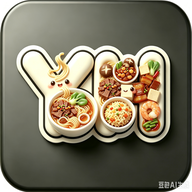
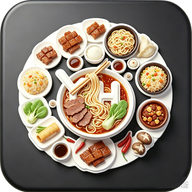
Add files via upload

diff --git a/index.html b/index.html
@@ -245,7 +245,9 @@ svg{ display:block; }
   display:flex;align-items:center;justify-content:center;
   font-weight:800;font-size:19px;
   -webkit-backdrop-filter:blur(4px); backdrop-filter:blur(4px);
+  overflow:hidden;
 }
+.brand-logo img{ width:100%; height:100%; object-fit:cover; display:block; }
 .brand-text b{ display:block; font-size:15px; font-weight:800; }
 .brand-text small{ display:block; font-size:11px; opacity:.85; }
 .nav-list{ flex:1 1 auto; display:flex; flex-direction:column; gap:4px; }
@@ -1575,7 +1577,7 @@ button.op-opt:active{ transform:scale(.985); }
   <nav id="sidenav" aria-label="主导航">
     <div class="sidenav-head">
       <div class="brand">
-        <div class="brand-logo">点</div>
+        <div class="brand-logo"><img src="icons/avatar-512.png" alt="YH YUMMY"></div>
         <div class="brand-text">
           <b>YH YUMMY</b>
           <small>DELI FOOD JUNCTION · 离线收银</small>
@@ -2102,6 +2104,14 @@ button.op-opt:active{ transform:scale(.985); }
     shopPhone: '',                 // 电话
     shopReg: '',                   // REG NO. 注册号
     receiptFooter: '谢谢惠顾，欢迎再次光临',
+
+    /* SST（马来西亚销售与服务税）展示。**不计入收费**，只在小票合计下面/结账页
+       应付下方告知客人这单含多少税，便于对账。0 = 不显示。
+       - sstRate:     税率（%），默认 6
+       - sstInclusive: true = 价格已含税（tax = total ÷ (1+率) × 率）→ 客人已付清，不再加收
+                      false = 价外（tax = total × 率）→ 仅做信息提示 */
+    sstRate: 6,
+    sstInclusive: true,
 
     /* 营业模式（早餐 / 午餐 / 晚餐…）：bizTags 是模式名列表，bizHours 是各自的时段，
        bizMode 是当前选中（'auto' = 按 bizHours 自动判现在该哪一档）。
@@ -5300,6 +5310,34 @@ button.op-opt:active{ transform:scale(.985); }
     return name + ' ' + (dotN > 0 ? '.'.repeat(dotN) : '') + ' ' + right;
   }
 
+  /* SST（马来西亚销售与服务税）计算 + 小票行。ESC/POS 模板与 HTML 兜底模板共用。
+     **不计入收费** —— 只是在合计下面告知这单含多少税，total / due 一概不动。
+     - 价内含税（sstInclusive=true，默认）：价格里已经含了税，
+       tax = total ÷ (1 + 率) × 率 —— 客人付的就是这个价，不再加收。
+     - 价外（sstInclusive=false）：tax = total × 率，只做信息提示。
+     税率 0 或没配 → 返回 null，什么都不输出。 */
+  function computeSst(total, cfg) {
+    cfg = cfg || {};
+    var rate = +cfg.sstRate || 0;
+    if (!rate || !total) return null;
+    var pct = rate / 100;
+    var tax = cfg.sstInclusive ? (total / (1 + pct)) * pct : total * pct;
+    if (!isFinite(tax) || tax <= 0) return null;
+    return {
+      label: 'SST ' + rate + '%' + (cfg.sstInclusive ? '（已含）' : ''),
+      amount: Math.round(tax * 100) / 100
+    };
+  }
+
+  /* ESC/POS：在合计下面打一行 SST（居中、小号，不加粗，跟合计区分开） */
+  function pushSstRow(lines, total, cfg) {
+    var s = computeSst(total, cfg);
+    if (!s) return;
+    lines.push([].concat(ESCPOS.ALIGN_C,
+                         encodeForPrinter(s.label + '  RM ' + U.formatMoneyPlain(s.amount)),
+                         ESCPOS.LF));
+  }
+
   /* 小票抬头四件套：店铺名称 / 地址 / 电话 / REG NO.
      空值整行不输出 —— 没填的项目不留空白行。 */
   function shopLines(cfg) {
@@ -5356,7 +5394,7 @@ button.op-opt:active{ transform:scale(.985); }
   }
 
   /* 金额区（两套模板共用）：应付 / 实收 / 找零 / 合计，退过钱的多打两行明细 */
-  function pushMoney(lines, order, sep) {
+  function pushMoney(lines, order, sep, cfg) {
     var due = order.due != null ? order.due : order.total;
     var paid = order.paid != null ? order.paid : due;
     var chg = order.change != null ? order.change : Math.max(0, paid - due);
@@ -5390,6 +5428,8 @@ button.op-opt:active{ transform:scale(.985); }
                          encodeForPrinter('合计：RM ' + U.formatMoneyPlain(order.total)),
                          ESCPOS.LF,
                          ESCPOS.SIZE_1, ESCPOS.BOLD_OFF));
+    // SST 行：在合计下面，小号居中，纯告知、不加收
+    pushSstRow(lines, order.total, cfg);
   }
 
   /* 落款（两套模板共用）：操作员 + 底部备注 + 切纸 */
@@ -5439,7 +5479,7 @@ button.op-opt:active{ transform:scale(.985); }
     lines.push([].concat(ESCPOS.ALIGN_L, encodeForPrinter(sep), ESCPOS.LF));
 
     pushItems(lines, order, sep);
-    pushMoney(lines, order, sep);
+    pushMoney(lines, order, sep, cfg);
     pushFoot(lines, order, cfg);
     return joinBytes(lines);
   }
@@ -5481,7 +5521,7 @@ button.op-opt:active{ transform:scale(.985); }
     lines.push([].concat(ESCPOS.ALIGN_L, encodeForPrinter(sep), ESCPOS.LF));
 
     pushItems(lines, order, sep);
-    pushMoney(lines, order, sep);
+    pushMoney(lines, order, sep, cfg);
     pushFoot(lines, order, cfg);
     return joinBytes(lines);
   }
@@ -5532,6 +5572,7 @@ button.op-opt:active{ transform:scale(.985); }
       '  .rcpt .it-meta{ color:#555; font-size:10px; }' +
       '  .rcpt .it-amt{ text-align:right; white-space:nowrap; }' +
       '  .rcpt .total{ text-align:center; font-size:16px; font-weight:800; margin-top:6px; }' +
+      '  .rcpt .sst{ text-align:center; font-size:11px; color:#333; margin-top:3px; }' +
       '  .rcpt .foot{ text-align:center; margin-top:6px; font-size:11px; }' +
       /* 外卖：TA 单号块 */
       '  .rcpt .ta-title{ text-align:center; font-size:15px; font-weight:800; margin:6px 0 2px; }' +
@@ -5593,6 +5634,12 @@ button.op-opt:active{ transform:scale(.985); }
           : '') +
         '<div class="sep"></div>' +
         '<div class="total">合计：RM ' + U.formatMoneyPlain(order.total) + '</div>' +
+        // SST 行：合计下面，小字居中，纯告知、不加收
+        (function () {
+          var s = computeSst(order.total, cfg);
+          return s ? '<div class="sst">' + U.escapeHTML(s.label) +
+                     '  RM ' + U.formatMoneyPlain(s.amount) + '</div>' : '';
+        })() +
         '<div class="row"><span>操作员</span><span>' + U.escapeHTML(G.App.operator.labelOf(order)) + '</span></div>' +
         (cfg.receiptFooter ? '<div class="foot">' + U.escapeHTML(cfg.receiptFooter) + '</div>' : '') +
       '</div>';
@@ -5776,7 +5823,8 @@ button.op-opt:active{ transform:scale(.985); }
     buildDineInReceipt: buildDineInReceipt,
     buildTakeawayReceipt: buildTakeawayReceipt,
     receiptHTML: receiptHTML,     // 浏览器兜底用的 HTML，设置页预览两套模板也用它
-    shopLines: shopLines          // 纯函数，导出给冒烟测试直接验证抬头四件套
+    shopLines: shopLines,         // 纯函数，导出给冒烟测试直接验证抬头四件套
+    computeSst: computeSst        // 纯函数：算出这单含多少 SST（不计入收费，只做展示）
   };
 })(window);
 
@@ -7061,9 +7109,13 @@ button.op-opt:active{ transform:scale(.985); }
       wrap.innerHTML = '';
       // 标题
       var head = U.el('div', { class: 'page-title' }, [
-        U.el('div', null, [
-          U.el('h1', null, 'YH YUMMY'),
-          U.el('div', { class: 'sub' }, 'DELI FOOD JUNCTION · 今日：' + U.formatDateCN(new Date()))
+        U.el('div', { style: 'display:flex;align-items:center;gap:14px;' }, [
+          U.el('img', { src: 'icons/avatar-512.png', alt: 'YH YUMMY',
+            style: 'width:60px;height:60px;border-radius:16px;object-fit:cover;box-shadow:0 4px 12px rgba(0,0,0,.12);flex:0 0 auto;' }),
+          U.el('div', null, [
+            U.el('h1', null, 'YH YUMMY'),
+            U.el('div', { class: 'sub' }, 'DELI FOOD JUNCTION · 今日：' + U.formatDateCN(new Date()))
+          ])
         ]),
         U.el('div', null, [
           U.el('button', { class: 'btn btn-soft', onclick: goTables }, [
@@ -10025,6 +10077,60 @@ button.op-opt:active{ transform:scale(.985); }
       c3.appendChild(f3);
       wrap.appendChild(c3);
 
+      /* SST（马来西亚销售与服务税）展示。**不计入收费**，只在小票合计下面 +
+         结账页应付下方提示客人这单含多少税，便于对账。
+         - 税率 0 就不显示这行（默认行为）
+         - 价内含税：客人付的就是这个价，按 total ÷ (1+率) × 率 反推税额（不另收）
+         - 价外：仅做信息提示，税额 = total × 率（客人也仍按 total 付） */
+      var cSst = U.el('div', { class: 'card' });
+      cSst.innerHTML = '<div class="card-title">SST 销售税展示 <span class="hint">不计入收费</span></div>';
+      var fS1 = U.el('div', { class: 'field' });
+      fS1.innerHTML = '<label>税率（%）<span class="hint">0 = 不显示</span></label>';
+      var inRate = U.el('input', { class: 'input', type: 'number', min: '0', max: '50', step: '0.5', value: c.sstRate || 0 });
+      inRate.addEventListener('change', function () {
+        var n = Math.max(0, Math.min(50, parseFloat(inRate.value) || 0));
+        G.App.cfg.set('sstRate', n);
+        inRate.value = n;
+        refresh();
+      });
+      fS1.appendChild(inRate);
+      cSst.appendChild(fS1);
+
+      var fS2 = U.el('div', { class: 'field' });
+      fS2.innerHTML = '<label>计税口径</label>';
+      var sSeg = U.el('div', { class: 'seg' });
+      [
+        ['true', '价内（含税）', '价格里已经含了税，客人付的就是这个价'],
+        ['false', '价外（仅提示）', '显示税额供参考，但客人也按 total 付']
+      ].forEach(function (p) {
+        var b = U.el('button', { class: (!!c.sstInclusive) === (p[0] === 'true') ? 'active' : '' },
+          p[1] + ' · ' + p[2]);
+        b.style.fontSize = '12px';
+        b.style.flex = '1 1 45%';
+        b.addEventListener('click', function () {
+          G.App.cfg.set('sstInclusive', p[0] === 'true');
+          refresh();
+        });
+        sSeg.appendChild(b);
+      });
+      fS2.appendChild(sSeg);
+      cSst.appendChild(fS2);
+
+      // 给老板一个眼见为实的换算：用 RM 100 样例，心算方便
+      var demoT = 100;
+      var rateNow = +c.sstRate || 0;
+      var demo = rateNow
+        ? (c.sstInclusive ? (demoT / (1 + rateNow / 100)) * (rateNow / 100) : demoT * (rateNow / 100))
+        : 0;
+      var fS3 = U.el('div', { class: 'hint', style: 'margin-top:6px;color:var(--muted);font-size:12px;' });
+      fS3.textContent = rateNow
+        ? '样例：合计 RM 100.00 → 显示「SST ' + rateNow + '%' + (c.sstInclusive ? '（已含）' : '') +
+          '  RM ' + demo.toFixed(2) + '」（仅展示，客人仍付 RM 100.00）'
+        : '当前税率 0，小票与结账页不显示 SST 行。';
+      cSst.appendChild(fS3);
+
+      wrap.appendChild(cSst);
+
       var c4 = U.el('div', { class: 'card' });
       c4.innerHTML = '<div class="card-title">下单后自动打印</div>';
       var sw = U.el('div', { class: 'switch' + (c.autoPrint ? ' on' : '') });
@@ -10901,6 +11007,19 @@ button.op-opt:active{ transform:scale(.985); }
       tr.innerHTML = '<span style="font-size:14px;font-weight:700;color:var(--muted);">应付金额</span>' +
         '<span style="font-size:30px;font-weight:900;color:var(--primary);">RM ' + U.formatMoneyPlain(due) + '</span>';
       bill.appendChild(tr);
+
+      /* SST 提示行：只告知这单含多少税，**不加到应付里**，客人付的还是上面那个数。
+         税率设为 0 就不显示这一行。 */
+      var sst = G.Print.computeSst(due, G.App.cfg.all());
+      if (sst) {
+        var sstRow = U.el('div', {
+          style: 'display:flex;justify-content:space-between;align-items:center;margin-top:6px;font-size:12.5px;color:var(--muted);'
+        });
+        sstRow.innerHTML = '<span>' + U.escapeHTML(sst.label) + '</span>' +
+          '<span>RM ' + U.formatMoneyPlain(sst.amount) + '</span>';
+        bill.appendChild(sstRow);
+      }
+
       wrap.appendChild(bill);
 
       /* ---------- 支付方式 ---------- */
@@ -11024,6 +11143,13 @@ button.op-opt:active{ transform:scale(.985); }
               '<div style="display:flex;justify-content:space-between;padding:4px 0;font-size:14px;">' +
                 '<span style="color:var(--muted);font-weight:700;">应付</span>' +
                 '<span style="font-weight:800;">RM ' + U.formatMoneyPlain(order.due != null ? order.due : order.total) + '</span></div>' +
+              (function () {
+                // SST 只是告知这单含多少税，不另收钱 —— 淡字小号跟上面的应付区分开
+                var s = G.Print.computeSst(order.due != null ? order.due : order.total, G.App.cfg.all());
+                return s ? '<div style="display:flex;justify-content:space-between;padding:1px 0 4px;font-size:12px;">' +
+                             '<span style="color:var(--muted);">' + U.escapeHTML(s.label) + '</span>' +
+                             '<span style="color:var(--muted);">RM ' + U.formatMoneyPlain(s.amount) + '</span></div>' : '';
+              })() +
               '<div style="display:flex;justify-content:space-between;padding:4px 0;font-size:14px;">' +
                 '<span style="color:var(--muted);font-weight:700;">实收</span>' +
                 '<span style="font-weight:800;">RM ' + U.formatMoneyPlain(order.paid != null ? order.paid : order.total) + '</span></div>' +

diff --git a/service-worker.js b/service-worker.js
@@ -2,7 +2,7 @@
    Service Worker · 离线缓存
    注意：每次发布新版本，务必 bump CACHE_NAME，否则用户端永远看到旧页面。
    ========================================================================== */
-var CACHE_NAME = 'pos-cashier-v11';   // v11：营业模式切换 + 营业日报报表 + 一键清空业务数据
+var CACHE_NAME = 'pos-cashier-v12';   // v12：SST 6% 展示（不计入收费）+ 侧栏/首页头像 + 新 PWA 图标
 
 var PRECACHE = [
   './',
@@ -12,7 +12,8 @@ var PRECACHE = [
   './icons/icon-512.png',
   './icons/icon-maskable-512.png',
   './icons/apple-touch-icon.png',
-  './icons/icon.svg'
+  './icons/icon.svg',
+  './icons/avatar-512.png'         // 页面头像（侧栏/首页/设置页都用）
 ];
 
 self.addEventListener('install', function (e) {
